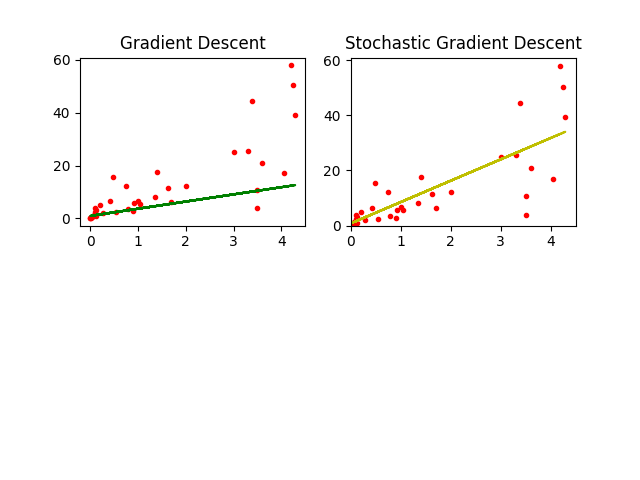
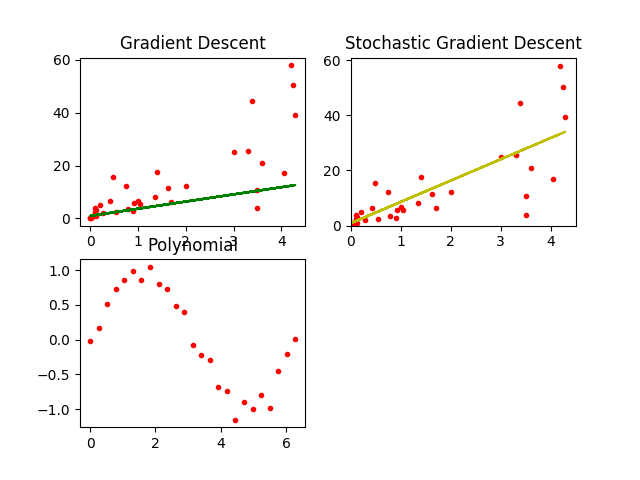
plot sin with noice

diff --git a/src/__init__.py b/src/__init__.py
@@ -1,4 +1,6 @@
 from toolz import curry
+import numpy as np
+from numpy import sin, pi
 import matplotlib.pyplot as plt
 from random import shuffle
 
@@ -195,4 +197,13 @@ plt.title("Stochastic Gradient Descent")
 plt.plot(*to_x_y(dataset), 'r.')
 plt.plot(*to_x_y(Y_hat_datapoints_b), 'y--')
 plt.axis(xmin=0, ymin=0)
+
+sin_x = np.linspace(0, pi*2, 25)
+sin_y = [sin(x) for x in sin_x]
+sin_y += np.random.normal(scale=0.1, size=25)
+
+"Plot sinusoid data"
+plt.subplot(2, 2, 3)
+plt.title("Polynomial")
+plt.plot(sin_x, sin_y, 'r.')
 plt.savefig('line.png')
